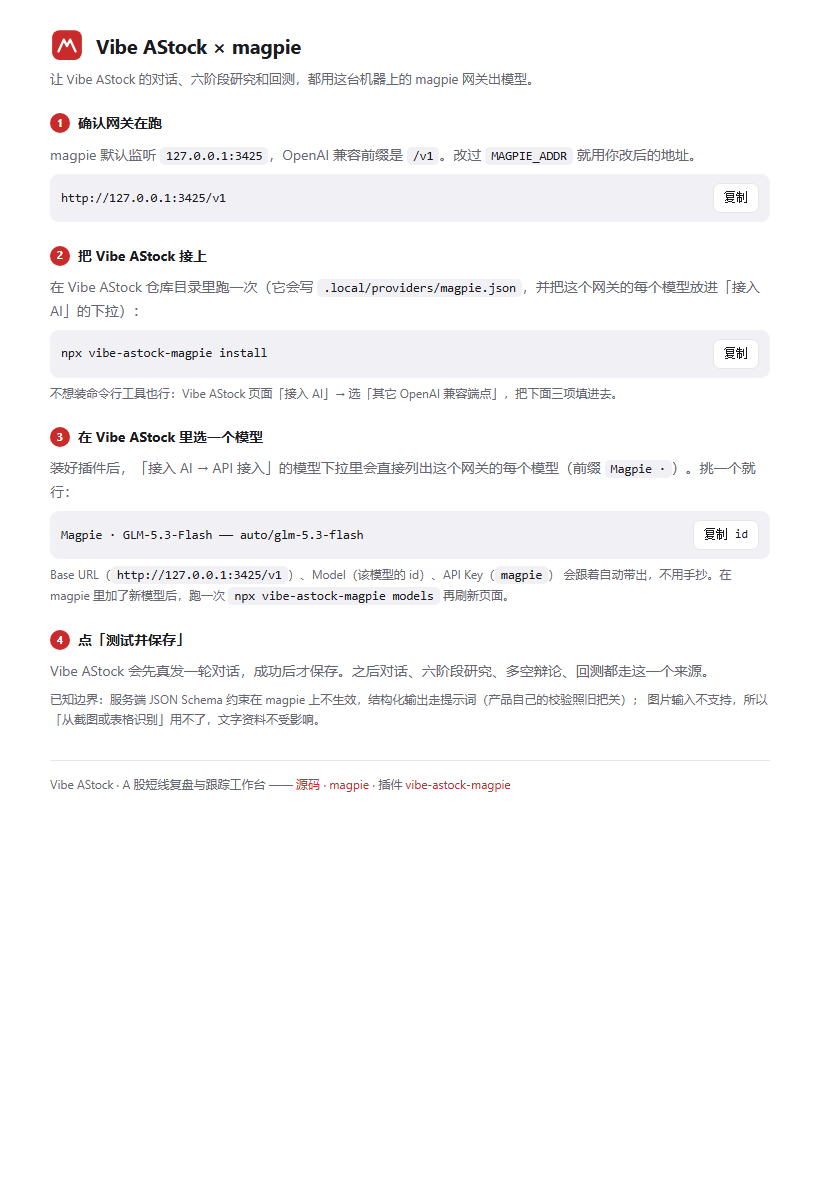
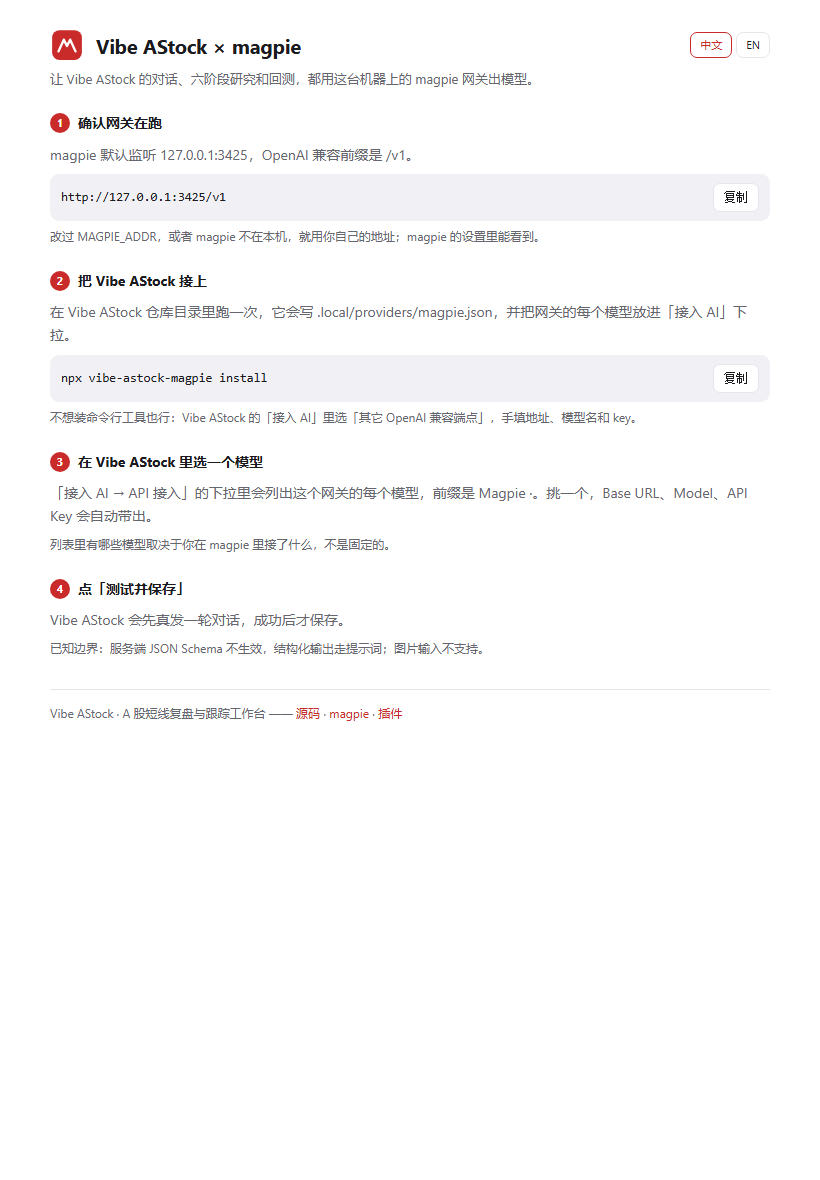
feat(page): bilingual, and stop hardcoding one model
Review feedback on magpie-community/plugins#1101: the page had a fixed model
name and a Chinese-only body while package.json advertised four locales.

- zh/en toggle, remembered in localStorage; titles are zh + en only
- no model name in the page: the picker lists whatever the gateway has
- the address is labelled as magpie's default, with a pointer to MAGPIE_ADDR

diff --git a/magpie-page/page/page.js b/magpie-page/page/page.js
@@ -1,17 +1,91 @@
 /**
- * Vibe AStock × magpie 页面脚本：只做「复制」。
+ * Vibe AStock × magpie 页面脚本：中英切换 + 复制。
  *
- * 页面不发任何网络请求、不申请任何 magpie 权限、不读用量与账号。
- * 模型名请到 magpie 自己的模型列表里复制 —— 网关没有 CORS 头，页面里 fetch 会被浏览器拦下，
- * 与其摆一个永远失败的按钮，不如不摆。
+ * 页面不发网络请求、不申请 magpie 权限、不读用量与账号。
  */
 const FLASH_MS = 1200;
 
-/** 复制文本；按钮短暂显示「已复制」 */
+const TEXT = {
+  zh: {
+    sub: "让 Vibe AStock 的对话、六阶段研究和回测，都用这台机器上的 magpie 网关出模型。",
+    "s1.title": "确认网关在跑",
+    "s1.body": "magpie 默认监听 127.0.0.1:3425，OpenAI 兼容前缀是 /v1。",
+    "s1.tip": "改过 MAGPIE_ADDR，或者 magpie 不在本机，就用你自己的地址；magpie 的设置里能看到。",
+    "s2.title": "把 Vibe AStock 接上",
+    "s2.body": "在 Vibe AStock 仓库目录里跑一次，它会写 .local/providers/magpie.json，并把网关的每个模型放进「接入 AI」下拉。",
+    "s2.tip": "不想装命令行工具也行：Vibe AStock 的「接入 AI」里选「其它 OpenAI 兼容端点」，手填地址、模型名和 key。",
+    "s3.title": "在 Vibe AStock 里选一个模型",
+    "s3.body": "「接入 AI → API 接入」的下拉里会列出这个网关的每个模型，前缀是 Magpie ·。挑一个，Base URL、Model、API Key 会自动带出。",
+    "s3.tip": "列表里有哪些模型取决于你在 magpie 里接了什么，不是固定的。",
+    "s4.title": "点「测试并保存」",
+    "s4.body": "Vibe AStock 会先真发一轮对话，成功后才保存。",
+    "s4.tip": "已知边界：服务端 JSON Schema 不生效，结构化输出走提示词；图片输入不支持。",
+    "footer.lead": "Vibe AStock · A 股短线复盘与跟踪工作台 ——",
+    "footer.source": "源码",
+    "footer.plugin": "插件",
+    copy: "复制",
+  },
+  en: {
+    sub: "Point Vibe AStock's chat, six-stage research and backtests at the magpie gateway on this machine.",
+    "s1.title": "Check the gateway",
+    "s1.body": "magpie listens on 127.0.0.1:3425 by default, with the OpenAI-compatible /v1 prefix.",
+    "s1.tip": "If you changed MAGPIE_ADDR, or magpie runs elsewhere, use your own address — magpie's settings show it.",
+    "s2.title": "Connect Vibe AStock",
+    "s2.body": "Run this once inside the Vibe AStock checkout. It writes .local/providers/magpie.json and puts every gateway model into the Connect AI picker.",
+    "s2.tip": "No CLI needed: pick “Other OpenAI-compatible endpoint” in Vibe AStock and type the address, a model id and the key yourself.",
+    "s3.title": "Pick a model in Vibe AStock",
+    "s3.body": "The Connect AI → API picker lists every model this gateway offers, prefixed Magpie ·. Pick one and the base URL, model id and key are filled in.",
+    "s3.tip": "Which models appear depends on what you connected inside magpie — there is no fixed list.",
+    "s4.title": "Hit “Test and save”",
+    "s4.body": "Vibe AStock sends one real turn first and only saves the config when it succeeds.",
+    "s4.tip": "Known limits: server-side JSON Schema is not enforced (structured output falls back to the prompt); image input is not supported.",
+    "footer.lead": "Vibe AStock — an A-share short-line review workbench —",
+    "footer.source": "source",
+    "footer.plugin": "plugin",
+    copy: "Copy",
+  },
+};
+
+const LANG_KEY = "vibe-astock-page-lang";
+
+function applyLang(lang) {
+  const table = TEXT[lang] ?? TEXT.zh;
+  document.documentElement.lang = lang === "en" ? "en" : "zh-CN";
+  for (const node of document.querySelectorAll("[data-i18n]")) {
+    const value = table[node.dataset.i18n];
+    if (value) node.textContent = value;
+  }
+  for (const button of document.querySelectorAll("[data-lang]")) {
+    button.setAttribute("aria-pressed", String(button.dataset.lang === lang));
+  }
+  try {
+    localStorage.setItem(LANG_KEY, lang);
+  } catch {
+    /* 存不了就只在本次生效 */
+  }
+}
+
+function initialLang() {
+  try {
+    const saved = localStorage.getItem(LANG_KEY);
+    if (saved === "zh" || saved === "en") return saved;
+  } catch {
+    /* 忽略 */
+  }
+  return (navigator.language || "zh").toLowerCase().startsWith("zh") ? "zh" : "en";
+}
+
+for (const button of document.querySelectorAll("[data-lang]")) {
+  button.addEventListener("click", () => applyLang(button.dataset.lang));
+}
+
+const currentLang = () => (document.documentElement.lang === "en" ? "en" : "zh");
+
+/** 复制文本；按钮短暂显示已复制 */
 function copy(text, button) {
+  const old = button.textContent;
   const flash = () => {
-    const old = button.textContent;
-    button.textContent = "已复制";
+    button.textContent = currentLang() === "en" ? "Copied" : "已复制";
     setTimeout(() => {
       button.textContent = old;
     }, FLASH_MS);
@@ -20,7 +94,6 @@ function copy(text, button) {
     navigator.clipboard.writeText(text).then(flash, () => {});
     return;
   }
-  // 老 webview 没有 clipboard API：退回 execCommand
   const area = document.createElement("textarea");
   area.value = text;
   document.body.appendChild(area);
@@ -29,7 +102,7 @@ function copy(text, button) {
     document.execCommand("copy");
     flash();
   } catch {
-    /* 复制不了也没关系，值本身在页面上可见、可手选 */
+    /* 复制不了也没关系，值本身在页面上可见 */
   }
   document.body.removeChild(area);
 }
@@ -37,10 +110,11 @@ function copy(text, button) {
 for (const button of document.querySelectorAll("[data-copy]")) {
   button.addEventListener("click", () => copy(button.dataset.copy, button));
 }
-
 for (const button of document.querySelectorAll("[data-copy-target]")) {
   button.addEventListener("click", () => {
     const target = document.getElementById(button.dataset.copyTarget);
     if (target) copy(target.textContent, button);
   });
 }
+
+applyLang(initialLang());

diff --git a/magpie-page/page/index.html b/magpie-page/page/index.html
@@ -16,47 +16,44 @@
             stroke-linecap="round" stroke-linejoin="round"/>
     </svg>
     <h1>Vibe AStock × magpie</h1>
+    <div class="lang" role="group" aria-label="Language">
+      <button type="button" data-lang="zh" aria-pressed="true">中文</button>
+      <button type="button" data-lang="en" aria-pressed="false">EN</button>
+    </div>
   </header>
-  <p class="sub">让 Vibe AStock 的对话、六阶段研究和回测，都用这台机器上的 magpie 网关出模型。</p>
+  <p class="sub" data-i18n="sub"></p>
 
   <section>
-    <h2><span class="n">1</span>确认网关在跑</h2>
-    <p>magpie 默认监听 <code>127.0.0.1:3425</code>，OpenAI 兼容前缀是 <code>/v1</code>。改过 <code>MAGPIE_ADDR</code> 就用你改后的地址。</p>
-    <div class="cmd"><span>http://127.0.0.1:3425/v1</span><button type="button" data-copy="http://127.0.0.1:3425/v1">复制</button></div>
+    <h2><span class="n">1</span><span data-i18n="s1.title"></span></h2>
+    <p data-i18n="s1.body"></p>
+    <div class="cmd"><span>http://127.0.0.1:3425/v1</span><button type="button" data-copy="http://127.0.0.1:3425/v1" data-i18n="copy"></button></div>
+    <p class="tip" data-i18n="s1.tip"></p>
   </section>
 
   <section>
-    <h2><span class="n">2</span>把 Vibe AStock 接上</h2>
-    <p>在 Vibe AStock 仓库目录里跑一次（它会写 <code>.local/providers/magpie.json</code>，并把这个网关的每个模型放进「接入 AI」的下拉）：</p>
-    <div class="cmd"><span id="cmdInstall">npx vibe-astock-magpie install</span><button type="button" data-copy-target="cmdInstall">复制</button></div>
-    <p class="tip">不想装命令行工具也行：Vibe AStock 页面「接入 AI」→ 选「其它 OpenAI 兼容端点」，把下面三项填进去。</p>
+    <h2><span class="n">2</span><span data-i18n="s2.title"></span></h2>
+    <p data-i18n="s2.body"></p>
+    <div class="cmd"><span id="cmdInstall">npx vibe-astock-magpie install</span><button type="button" data-copy-target="cmdInstall" data-i18n="copy"></button></div>
+    <p class="tip" data-i18n="s2.tip"></p>
   </section>
 
   <section>
-    <h2><span class="n">3</span>在 Vibe AStock 里选一个模型</h2>
-    <p>装好插件后，「接入 AI → API 接入」的模型下拉里会直接列出这个网关的每个模型（前缀 <code>Magpie ·</code>）。挑一个就行：</p>
-    <div class="cmd"><span>Magpie · GLM-5.3-Flash —— auto/glm-5.3-flash</span><button type="button" data-copy="auto/glm-5.3-flash">复制 id</button></div>
-    <p class="tip">
-      Base URL（<code>http://127.0.0.1:3425/v1</code>）、Model（该模型的 id）、API Key（<code>magpie</code>）
-      会跟着自动带出，不用手抄。在 magpie 里加了新模型后，跑一次
-      <code>npx vibe-astock-magpie models</code> 再刷新页面。
-    </p>
+    <h2><span class="n">3</span><span data-i18n="s3.title"></span></h2>
+    <p data-i18n="s3.body"></p>
+    <p class="tip" data-i18n="s3.tip"></p>
   </section>
 
   <section>
-    <h2><span class="n">4</span>点「测试并保存」</h2>
-    <p>Vibe AStock 会先真发一轮对话，成功后才保存。之后对话、六阶段研究、多空辩论、回测都走这一个来源。</p>
-    <p class="tip">
-      已知边界：服务端 JSON Schema 约束在 magpie 上不生效，结构化输出走提示词（产品自己的校验照旧把关）；
-      图片输入不支持，所以「从截图或表格识别」用不了，文字资料不受影响。
-    </p>
+    <h2><span class="n">4</span><span data-i18n="s4.title"></span></h2>
+    <p data-i18n="s4.body"></p>
+    <p class="tip" data-i18n="s4.tip"></p>
   </section>
 
   <footer>
-    Vibe AStock · A 股短线复盘与跟踪工作台 ——
-    <a href="https://github.com/simonlin1212/vibe-astock" target="_blank" rel="noreferrer noopener">源码</a> ·
+    <span data-i18n="footer.lead"></span>
+    <a href="https://github.com/simonlin1212/vibe-astock" target="_blank" rel="noreferrer noopener" data-i18n="footer.source"></a> ·
     <a href="https://github.com/yetone/magpie" target="_blank" rel="noreferrer noopener">magpie</a> ·
-    插件 <a href="https://github.com/lee-lipeng/vibe-astock-magpie" target="_blank" rel="noreferrer noopener">vibe-astock-magpie</a>
+    <a href="https://github.com/lee-lipeng/vibe-astock-magpie" target="_blank" rel="noreferrer noopener" data-i18n="footer.plugin"></a>
   </footer>
 </div>
 </body>

diff --git a/magpie-page/page/page.css b/magpie-page/page/page.css
@@ -15,6 +15,9 @@ body {
 header { display: flex; align-items: center; gap: 12px; margin-bottom: 6px; }
 header svg { width: 34px; height: 34px; flex: none; }
 h1 { font-size: 20px; margin: 0; letter-spacing: -0.01em; }
+.lang { margin-left: auto; display: flex; gap: 4px; }
+.lang button { padding: 3px 9px; font-size: 11px; }
+.lang button[aria-pressed="true"] { border-color: var(--accent); color: var(--accent); }
 .sub { color: var(--muted); font-size: 13px; margin: 2px 0 22px; }
 section { margin-bottom: 22px; }
 h2 { font-size: 14px; margin: 0 0 8px; display: flex; align-items: center; gap: 8px; }
